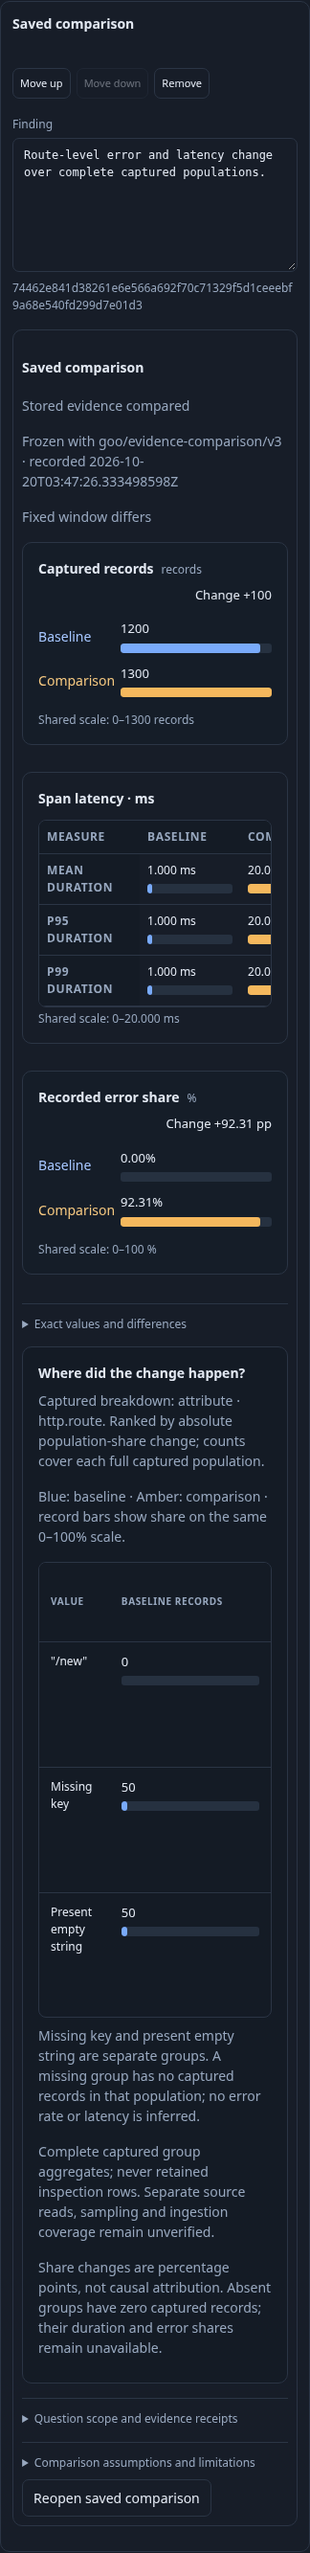
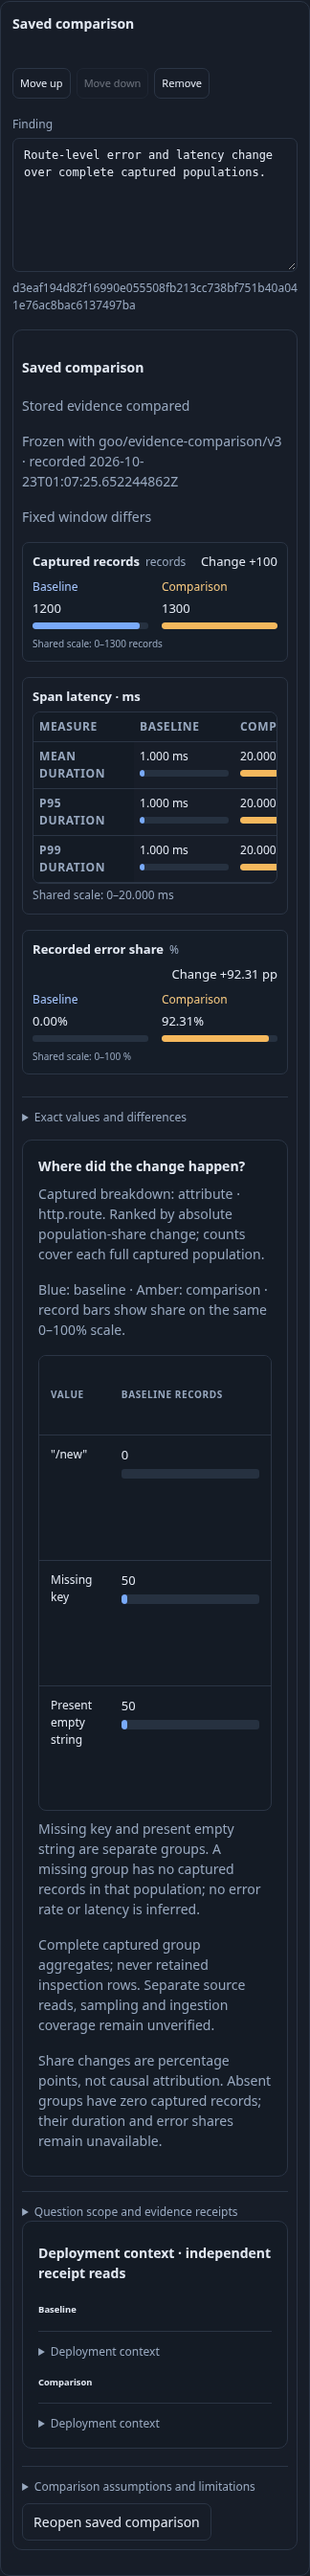
Use signal-appropriate columns and controls for log comparisons

diff --git a/ui/comparison-breakdown.js b/ui/comparison-breakdown.js
@@ -1,15 +1,17 @@
 /* Stored group evidence and explicit recapture share the existing question contract. */
 (function(global){
  const workspace=()=>typeof module!=='undefined'?require('./workspace'):global.GooWorkspace;
+ // Signal capability is distinct from whether a particular capture recorded measures.
+ function recordMeasures(a,b){const spans=a?.signal==='spans'&&b?.signal==='spans';return {duration:spans,status:spans}}
  function grouped(question,field){const q=structuredClone(question);q.groupBy=[structuredClone(field)];q.offset=0;q.limit=100;delete q.groupTimeSeries;if(q.signal==='spans'){q.summary='span-duration';q.spanStatus=true}workspace().validateStep(workspace().recordStep(q));return q}
  function focused(question,field,value){const q=grouped(question,field),leaf={field:structuredClone(field),op:value===null?'missing':'eq',...(value===null?{}:{value})};q.where=q.where?{all:[q.where,leaf]}:leaf;workspace().validateStep(workspace().recordStep(q));return q}
  function mount(host,result,{saved=false,current=()=>host.isConnected}={}){
   const a=result.baseline.receipt.question.explore,b=result.selection.receipt.question.explore;if(!a||!b)return;
   const n=(tag,text)=>{const e=document.createElement(tag);if(text!==undefined)e.textContent=text;return e},section=n('section');section.className='comparison-breakdown';section.append(n('h5','Where did the change happen?'));host.append(section);
-  const d=result.breakdown;
-  if(d){section.append(n('p',`Captured breakdown: ${d.field.kind} · ${d.field.key}. Ranked by absolute population-share change; counts cover each full captured population.`));const wrap=n('div'),table=n('table'),head=n('tr');wrap.className='scroll';for(const h of ['Value','Baseline records','Comparison records','Share change (pp)','Recorded errors (baseline → comparison)','Mean duration (baseline → comparison)','Investigate'])head.append(n('th',h));table.append(head);
+  const d=result.breakdown,capabilities=recordMeasures(a,b);
+  if(d){section.append(n('p',`Captured breakdown: ${d.field.kind} · ${d.field.key}. Ranked by absolute population-share change; counts cover each full captured population.`));const wrap=n('div'),table=n('table'),head=n('tr');table.dataset.signal=a.signal;wrap.className='scroll';for(const h of ['Value','Baseline records','Comparison records','Share change (pp)',...(capabilities.status?['Recorded errors (baseline → comparison)']:[]),...(capabilities.duration?['Mean duration (baseline → comparison)']:[]),'Investigate'])head.append(n('th',h));table.append(head);
    const fmt=(x)=>x?global.GooDistributions.durationMS(x.sumNs,x.count):'Unavailable',status=x=>x?`${x.error}/${x.count} (${global.GooDistributions.percent(x.error,x.count)}%)`:'Unavailable';
-   section.append(n('p','Blue: baseline · Amber: comparison · record bars show share on the same 0–100% scale.','comparison-key'));for(const row of d.rows){const tr=n('tr');tr.dataset.groupValue=JSON.stringify(row.value);for(const text of [global.GooDistributions.valueLabel(row.value),row.baselineCount,row.selectionCount,row.differencePP,status(row.measures?.baselineStatus)+' → '+status(row.measures?.selectionStatus),fmt(row.measures?.baselineDuration)+' → '+fmt(row.measures?.selectionDuration)])tr.append(n('td',text));for(const [index,count,total,side]of[[1,row.baselineCount,result.baseline.count,'baseline'],[2,row.selectionCount,result.selection.count,'selection']]){const cell=tr.children[index];cell.replaceChildren();global.GooComparisonVisual.cell(cell,global.GooDistributions.percent(count,total),side,{max:'100',text:count})}const cell=n('td');for(const [label,q]of[['Baseline',a],['Comparison',b]]){let link=n('a','Open '+label.toLowerCase()+' question');try{link.href=workspace().stepLink(workspace().recordStep(focused(q,d.field,row.value)));link.title='Opens an authored fixed question; run explicitly to read telemetry.'}catch(e){link=n('span','Focused question exceeds query budget')}cell.append(link,n('br'))}tr.append(cell);table.append(tr)}wrap.append(table);section.append(wrap,n('p','Missing key and present empty string are separate groups. A missing group has no captured records in that population; no error rate or latency is inferred.'));for(const warning of d.warnings)section.append(n('p',warning));
+   section.append(n('p','Blue: baseline · Amber: comparison · record bars show share on the same 0–100% scale.','comparison-key'));for(const row of d.rows){const tr=n('tr');tr.dataset.groupValue=JSON.stringify(row.value);for(const text of [global.GooDistributions.valueLabel(row.value),row.baselineCount,row.selectionCount,row.differencePP,...(capabilities.status?[status(row.measures?.baselineStatus)+' → '+status(row.measures?.selectionStatus)]:[]),...(capabilities.duration?[fmt(row.measures?.baselineDuration)+' → '+fmt(row.measures?.selectionDuration)]:[])])tr.append(n('td',text));for(const [index,count,total,side]of[[1,row.baselineCount,result.baseline.count,'baseline'],[2,row.selectionCount,result.selection.count,'selection']]){const cell=tr.children[index];cell.replaceChildren();global.GooComparisonVisual.cell(cell,global.GooDistributions.percent(count,total),side,{max:'100',text:count})}const cell=n('td');for(const [label,q]of[['Baseline',a],['Comparison',b]]){let link=n('a','Open '+label.toLowerCase()+' question');try{link.href=workspace().stepLink(workspace().recordStep(focused(q,d.field,row.value)));link.title='Opens an authored fixed question; run explicitly to read telemetry.'}catch(e){link=n('span','Focused question exceeds query budget')}cell.append(link,n('br'))}tr.append(cell);table.append(tr)}wrap.append(table);section.append(wrap,n('p','Missing key and present empty string are separate groups. A missing group has no captured records in that population; no error rate or latency is inferred.'));for(const warning of d.warnings)section.append(n('p',warning));
   }else section.append(n('p',a.numeric||b.numeric?'Numeric attribute comparisons are not supported.':a.groupBy?.length===2?'Two-field captures do not contain a complete single-field breakdown.':'A single-field breakdown was not captured. Inspection rows cannot supply full-population groups.'));
   if(saved||result.state!=='comparable'||a.numeric||b.numeric)return;
   const details=n('details');details.className='breakdown-recapture';details.append(n('summary',d?'Capture another breakdown':'Capture a breakdown'));const label=n('label','Breakdown dimension'),select=n('select');select.setAttribute('aria-label','Breakdown dimension');const fields=[['Service',{kind:'column',key:'service'}],['HTTP route',{kind:'attribute',key:'http.route'}],['Deployment version',{kind:'resource',key:'service.version'}],['Cloud region',{kind:'resource',key:'cloud.region'}]];for(const [name,f]of fields){const o=n('option',name);o.value=JSON.stringify(f);select.append(o)}label.append(select);const note=n('p','Reads both original fixed windows again with this grouping. Creates two new captures; original evidence and findings remain unchanged. Sampling and late arrivals can change the new results.'),run=n('button','Capture both windows'),status=n('p'),retained=n('div'),out=n('div');status.setAttribute('role','status');details.append(label,note,run,status,retained,out);section.append(details);
@@ -17,5 +19,5 @@
   Promise.all([result.baseline.receipt.id,result.selection.receipt.id].map(id=>fetch('/api/captures/'+id).then(async r=>{if(!r.ok)throw Error('Stored fields unavailable');return r.json()}))).then(pair=>{if(!current())return;const seen=new Set(fields.map(x=>JSON.stringify(x[1])));for(const p of pair)for(const f of p.explore?.fields||[]){const k=JSON.stringify({kind:f.kind,key:f.key});if(seen.has(k))continue;seen.add(k);const o=n('option',f.kind+' · '+f.key);o.value=k;select.append(o)}}).catch(()=>{if(current())status.textContent='Stored field discovery unavailable; standard OTel dimensions remain selectable.'});
   let pending=null;run.onclick=async()=>{if(!current())return;run.disabled=true;select.disabled=true;out.replaceChildren();let ids=[];try{if(pending){ids=pending.ids;status.textContent='Comparing retained captures…'}else{const field=JSON.parse(select.value),questions=[grouped(a,field),grouped(b,field)];status.textContent='Capturing both fixed windows…';for(let i=0;i<2;i++){if(!current())throw Error('Comparison closed; completed captures remain retained.');const response=await fetch('/api/captures',{method:'POST',headers:{'Content-Type':'application/json'},body:JSON.stringify({title:(i?'Comparison':'Baseline')+' breakdown',question:{kind:'explore',explore:questions[i]}})}),capture=await response.json();if(!response.ok)throw Error(capture.error||'Capture unavailable');ids.push(capture.receipt.id);const p=n('p',(i?'Comparison':'Baseline')+' retained: '+capture.receipt.id);p.className='reference-id';retained.append(p)}pending={ids};}if(!current())return;status.textContent='New breakdown captures retained. Originals unchanged.';global.GooEvidenceComparison.mount(out,ids,{autoCompare:true});run.textContent='Compare retained breakdown';}catch(e){status.textContent=e.message+(ids.length?' Completed capture IDs are retained above; retry creates a new pair.':'')}finally{if(current()){run.disabled=false;select.disabled=!!pending}}};
  }
- const api={grouped,focused,mount};if(typeof module!=='undefined')module.exports=api;else global.GooComparisonBreakdown=api;
+ const api={recordMeasures,grouped,focused,mount};if(typeof module!=='undefined')module.exports=api;else global.GooComparisonBreakdown=api;
 })(typeof window==='undefined'?globalThis:window);

diff --git a/ui/distributions.js b/ui/distributions.js
@@ -26,7 +26,8 @@
   }catch(e){if(generation===comparisonGeneration){el('cohortValues').replaceChildren();el('cohortExplain').textContent='';el('cohortStatus').textContent='Comparison unavailable · '+e.message}}}
   function signedMS(ns){if(ns===undefined||ns==='')return 'Unavailable';const negative=ns.startsWith('-');const absolute=negative?ns.slice(1):ns;const whole=absolute.split('.')[0];return (negative?'−':'+')+durationMS(whole)}
   function measureValues(m,metric){if(metric==='error-rate')return [m?.baselineStatus?percent(m.baselineStatus.error,m.baselineStatus.count):null,m?.selectionStatus?percent(m.selectionStatus.error,m.selectionStatus.count):null,m?.errorDifferencePP];const field={mean:'sumNs',p95:'p95Ns',p99:'p99Ns'}[metric];return [m?.baselineDuration?.state==='observed'?durationMS(m.baselineDuration[field],metric==='mean'?m.baselineDuration.count:'1'):null,m?.selectionDuration?.state==='observed'?durationMS(m.selectionDuration[field],metric==='mean'?m.selectionDuration.count:'1'):null,m?.[{mean:'meanDifferenceNs',p95:'p95DifferenceNs',p99:'p99DifferenceNs'}[metric]]];}
-  function renderComparison(result){el('cohortValues').replaceChildren();el('cohortMeasures').replaceChildren();if(result.state!=='ok')return;const scopeDetails=node('details');scopeDetails.append(node('summary','Scope, status and comparison limits'));el('cohortMeasures').append(scopeDetails);scopeDetails.append(node('p','Baseline '+new Date(baseline.question.fromMs).toISOString()+' → '+new Date(baseline.question.toMs).toISOString()+' · current '+new Date(current.question.fromMs).toISOString()+' → '+new Date(current.question.toMs).toISOString()+' · half-open windows.'));if(result.measures?.baselineStatus&&result.measures?.selectionStatus){const describe=s=>'Error '+s.error+' · OK '+s.ok+' · Unset '+s.unset+' · unrecognized / missing '+s.unknown;scopeDetails.append(node('p','Baseline status: '+describe(result.measures.baselineStatus)+'; current status: '+describe(result.measures.selectionStatus)+'.'))}const metric=el('comparisonMeasure').value;for(const o of el('comparisonMeasure').options)o.disabled=o.value==='error-rate'?!(result.measures?.baselineStatus&&result.measures?.selectionStatus):o.value!=='share'&&!(result.measures?.baselineDuration&&result.measures?.selectionDuration);if(el('comparisonMeasure').selectedOptions[0].disabled){el('comparisonMeasure').value='share';return renderComparison(result)}
+  function comparisonCapabilities(a,b){const c=global.GooComparisonBreakdown.recordMeasures(a,b);for(const o of el('comparisonMeasure').options)o.hidden=o.value==='error-rate'?!c.status:o.value!=='share'&&!c.duration;el('comparisonMeasure').parentElement.hidden=!c.status&&!c.duration;if(el('comparisonMeasure').selectedOptions[0].hidden)el('comparisonMeasure').value='share';}
+  function renderComparison(result){el('cohortValues').replaceChildren();el('cohortMeasures').replaceChildren();if(result.state!=='ok')return;const scopeDetails=node('details');scopeDetails.append(node('summary','Scope, status and comparison limits'));el('cohortMeasures').append(scopeDetails);scopeDetails.append(node('p','Baseline '+new Date(baseline.question.fromMs).toISOString()+' → '+new Date(baseline.question.toMs).toISOString()+' · current '+new Date(current.question.fromMs).toISOString()+' → '+new Date(current.question.toMs).toISOString()+' · half-open windows.'));if(result.measures?.baselineStatus&&result.measures?.selectionStatus){const describe=s=>'Error '+s.error+' · OK '+s.ok+' · Unset '+s.unset+' · unrecognized / missing '+s.unknown;scopeDetails.append(node('p','Baseline status: '+describe(result.measures.baselineStatus)+'; current status: '+describe(result.measures.selectionStatus)+'.'))}comparisonCapabilities(baseline.question,current.question);const metric=el('comparisonMeasure').value;for(const o of el('comparisonMeasure').options)o.disabled=o.hidden||(o.value==='error-rate'?!(result.measures?.baselineStatus&&result.measures?.selectionStatus):o.value!=='share'&&!(result.measures?.baselineDuration&&result.measures?.selectionDuration));if(el('comparisonMeasure').selectedOptions[0].disabled){el('comparisonMeasure').value='share';return renderComparison(result)}
    const format=(m)=>{const [a,b,d]=measureValues(m,metric);return [a===null?'Unavailable':a+(metric==='error-rate'?'%':''),b===null?'Unavailable':b+(metric==='error-rate'?'%':''),d===undefined||d===''?'Unavailable':metric==='error-rate'?(d.startsWith('-')?'':'+')+d+' pp':signedMS(d)]};
    if(metric!=='share'){const values=format(result.measures);scopeDetails.append(node('p','Whole population · baseline '+values[0]+' → current '+values[1]+' · '+values[2]));scopeDetails.append(node('p','Differences are current minus baseline. Each percentile is computed independently over its full population. Missing groups have unavailable measures; zero is not substituted.'))}
    const visual=global.GooComparisonVisual,raw=m=>measureValues(m,metric).slice(0,2).map(v=>v===null?null:v.replace(/ ms$/,'')),axis=metric==='share'||metric==='error-rate'?'100':visual.maximum([...result.rows.flatMap(r=>raw(r.measures)),...raw(result.measures)]);visual.pair(el('cohortMeasures'),{title:metric==='share'?'Captured population size':el('comparisonMeasure').selectedOptions[0].textContent,values:metric==='share'?[result.baselineCount,result.selectionCount]:raw(result.measures),display:metric==='share'?[result.baselineCount,result.selectionCount]:format(result.measures).slice(0,2),unit:metric==='share'?'records':metric==='error-rate'?'%':'ms',delta:metric==='share'?(BigInt(result.selectionCount)-BigInt(result.baselineCount)).toString():format(result.measures)[2],...(metric!=='share'?{ceiling:axis}:{})});const key=node('p','Baseline · Current selection · all rows share a 0–'+axis+(metric==='share'||metric==='error-rate'?'%':' ms')+' scale','comparison-key');el('cohortValues').append(key);
@@ -37,6 +38,7 @@
   el('comparePrevious').onclick=async()=>{if(!current)return;const selection=current,previousButton=el('comparePrevious');clearComparison();const g=comparisonGeneration;previousButton.disabled=true;el('cohortStatus').textContent='Reading the previous fixed window…';select('Compare');try{const q=structuredClone(selection.question),width=q.toMs-q.fromMs;q.toMs=q.fromMs;q.fromMs-=width;q.offset=0;const response=await global.GooQueries.post('/api/explore',q),data=await response.json();if(g!==comparisonGeneration)return;if(!response.ok)throw Error(data.error);baseline=snapshot(data,true);frozenWindow=structuredClone(selection.question);updateBaseline();await compare()}catch(e){if(g===comparisonGeneration)el('cohortStatus').textContent='Previous window unavailable · '+e.message}finally{if(current===selection)previousButton.disabled=false}};
   el('comparisonSave').hidden=readOnly;el('comparePrevious').hidden=readOnly;el('comparisonSave').onclick=()=>{if(!baseline||!current)return;global.dispatchEvent(new CustomEvent('goo:save-capture',{detail:{question:{kind:'comparison',comparison:{baseline:baseline.question,selection:current.question}},title:'Population comparison'}}))};
   function renderDistribution(data){
+   comparisonCapabilities(data.question,data.question);
    const field=data.question.groupBy?.[0],valid=data.question.groupBy?.length===1,hasNumeric=data.groups.some(g=>g.numeric),hasStatus=data.groups.length>0&&data.groups.every(g=>g.spanStatus),hasDurations=data.groups.length>0&&data.groups.every(g=>g.duration?.state==='observed');el('baselinePin').disabled=!!data.numeric||!valid||data.state==='changed_between_reads';el('comparePrevious').disabled=readOnly||!!data.numeric||!valid||data.state==='changed_between_reads'||data.question.fromMs<(data.question.toMs-data.question.fromMs);el('distributionMeasureLabel').hidden=!valid||(!hasDurations&&!hasStatus&&!hasNumeric);for(const o of el('distributionMeasure').options)o.disabled=o.hidden=o.value.startsWith('numeric-')?!hasNumeric:o.value==='error-rate'?!hasStatus:o.value!=='count'&&!hasDurations;if(el('distributionMeasure').selectedOptions[0].disabled)el('distributionMeasure').value='count';const metric=el('distributionMeasure').value;el('baselinePin').textContent='Pin as baseline';const content=el('distributionContent');content.replaceChildren();
    if(!valid)content.append(node('div','Choose a breakdown field, then apply your query.'));
    else if(data.state==='changed_between_reads')content.append(node('p','Source reads disagree. The total measures and breakdown cannot be treated as one population.'));

diff --git a/journeys/log-comparison.spec.js b/journeys/log-comparison.spec.js
@@ -1,0 +1,17 @@
+const {test,expect}=require('@playwright/test'),{randomBytes}=require('node:crypto'),{recordStep}=require('../ui/workspace');
+const {startBombadil}=require('./support/cross-app');
+const base=process.env.GOO_QUERY_URL||'http://127.0.0.1:8088';
+test('119 compare ordinary logs with full counts and share rather than span measures',async({page,request})=>{
+ test.setTimeout(150000);page.setDefaultTimeout(15000);const environment='log-compare-'+randomBytes(4).toString('hex'),now=Date.now(),attrs=o=>Object.entries(o).map(([key,stringValue])=>({key,value:{stringValue}}));
+ async function post(path,data){const r=await request.post(base+path,{data});expect(r.ok(),await r.text()).toBe(true);return r.json()}
+ const records=[];for(const [offset,values]of [[90000,[null,'','west']],[30000,['west','west','east']]])for(const value of values)records.push({timeUnixNano:String(BigInt(now-offset)*1000000n),body:{stringValue:'ordinary log'},severityText:'ERROR',attributes:attrs(value===null?{}:{region:value})});
+ expect((await request.post('http://127.0.0.1:4318/v1/logs',{data:{resourceLogs:[{resource:{attributes:attrs({'service.name':'worker','deployment.environment.name':environment})},scopeLogs:[{logRecords:records}]}]}})).ok()).toBe(true);
+ const q={signal:'logs',environment,fromMs:now-60000,toMs:now,limit:1,offset:0,groupBy:[{kind:'attribute',key:'region'}]};await expect.poll(async()=>{const r=await post('/api/explore',q);return r.count},{timeout:45000}).toBe('3');
+ const view=await post('/api/exploration-views',{version:1,title:'Log populations',queries:[q],layout:'charts-records',columns:['utc','summary']});
+ const reads=[],errors=[];page.on('pageerror',e=>errors.push(e.message));page.on('request',r=>{if(r.method()==='POST'&&/\/api\/(explore|captures|measurements)$/.test(r.url()))reads.push(r.url())});
+ await page.goto(base+'/#exploration-view='+view.id);const pop=page.getByRole('region',{name:'Population workspace',exact:true});await pop.getByRole('button',{name:'Run population view',exact:true}).click();await expect(pop).toHaveAttribute('data-phase','applied');const logs=pop.locator('[data-population-signal=logs]');await expect(logs.locator('.record-row')).toHaveCount(1);expect(await logs.locator('[id$=comparisonMeasure]').evaluate(e=>e.parentElement.hidden)).toBe(true);await logs.getByRole('button',{name:'Compare previous window',exact:true}).click();await expect(logs.locator('[id$=cohortStatus]')).toContainText('3 selected records vs 3 baseline records');await expect(logs.locator('[id$=comparisonMeasure]')).toBeHidden();await expect(logs.locator('.cohort-table')).toContainText('Missing key');await expect(logs.locator('.cohort-table')).toContainText('Present empty string');await expect(logs.locator('.cohort-table')).not.toContainText('Unavailable');await logs.screenshot({path:'docs/journeys/screenshots/119a-log-population-comparison.png'});
+ const a=await post('/api/captures',{title:'Earlier logs',question:{kind:'explore',explore:{...q,fromMs:now-120000,toMs:now-60000}}}),b=await post('/api/captures',{title:'Current logs',question:{kind:'explore',explore:q}}),doc=await post('/api/documents',{document:{title:'Log distribution change',cards:[{kind:'question',key:randomBytes(32).toString('hex'),step:recordStep(q),evidence:[a.receipt.id,b.receipt.id]}]}});
+ const before=reads.length;await page.goto(base+'/#document='+doc.id);const comparison=page.locator('#documentCards .question-evidence > .evidence-comparison');await comparison.getByRole('button',{name:'Compare captures',exact:true}).click();const result=comparison.locator('.evidence-comparison-result');await expect(result).toHaveAttribute('data-state','comparable');const table=result.locator('.comparison-breakdown table');await expect(table.locator('th')).toHaveText(['Value','Baseline records','Comparison records','Share change (pp)','Investigate']);await expect(table.locator('tr')).toHaveCount(5);await expect(table).toContainText('Missing key');await expect(table).toContainText('Present empty string');await expect(table).not.toContainText('Unavailable');expect(reads.length).toBe(before);await result.screenshot({path:'docs/journeys/screenshots/119b-stored-log-comparison.png'});
+ await page.setViewportSize({width:390,height:844});expect(await page.evaluate(()=>document.documentElement.scrollWidth<=innerWidth)).toBe(true);await table.evaluate(e=>e.parentElement.scrollLeft=e.parentElement.scrollWidth);const link=table.getByRole('link',{name:'Open comparison question',exact:true}).first();await link.scrollIntoViewIfNeeded();await expect(link).toBeInViewport();await result.locator('.comparison-breakdown').screenshot({path:'docs/journeys/screenshots/119c-mobile-log-breakdown.png'});expect(reads.length).toBe(before);expect(errors).toEqual([]);
+ if(process.env.GOO_LOG_COMPARISON_BOMBADIL==='1'){const actor=await startBombadil({dir:'artifacts/log-comparison/'+environment,url:base+'/#document='+doc.id,specification:'verification/bombadil/log-comparison.ts',seconds:15});try{await actor.finish()}finally{await actor.stop()}}
+});

diff --git a/verification/bombadil/log-comparison.ts b/verification/bombadil/log-comparison.ts
@@ -1,0 +1,9 @@
+import {always,eventually} from '@antithesishq/bombadil';
+import {extract,actions,registerCustomAction} from '@antithesishq/bombadil/browser';
+export {noUncaughtExceptions,noUnhandledPromiseRejections} from '@antithesishq/bombadil/browser/defaults/properties';
+const state=extract(({document,window})=>({canStart:[...document.querySelectorAll<HTMLButtonElement>('.evidence-comparison button')].some(b=>b.textContent==='Compare captures'&&!b.disabled),ready:!!document.querySelector('.evidence-comparison-result[data-state=comparable]'),headers:document.querySelectorAll('.comparison-breakdown table th').length,sourceReads:window.performance.getEntriesByType('resource').filter(e=>/\/api\/explore$/.test(new URL(e.name).pathname)).length,stage:Number(document.documentElement.dataset.logCompareStage||0)}));
+export const noRecordRead=always(()=>state.current.sourceReads===0);
+export const logColumns=always(()=>!state.current.ready||state.current.headers===5);
+export const complete=eventually(()=>state.current.stage===2&&state.current.ready).within(10,'seconds');
+const step=registerCustomAction('goo.logComparison',async(document,_window,stage:number)=>{if(stage===0)[...document.querySelectorAll<HTMLButtonElement>('.evidence-comparison button')].find(b=>b.textContent==='Compare captures')!.click();else{const box=document.querySelector<HTMLElement>('.comparison-breakdown>.scroll')!;box.scrollLeft=box.scrollWidth}document.documentElement.dataset.logCompareStage=String(stage+1)});
+export const choices=actions(()=>state.current.stage===0&&state.current.canStart?[step(0)]:state.current.stage===1&&state.current.ready?[step(1)]:['Wait']);

diff --git a/journeys/comparison-breakdown.spec.js b/journeys/comparison-breakdown.spec.js
@@ -1,4 +1,4 @@
-const {test,expect}=require('@playwright/test'),{randomBytes}=require('node:crypto'),fs=require('node:fs/promises'),path=require('node:path');const {recordStep,readStepLink}=require('../ui/workspace'),{verifyWithGo,startBombadil}=require('./support/cross-app');const base='http://127.0.0.1:8088';
+const {test,expect}=require('@playwright/test'),{randomBytes}=require('node:crypto'),fs=require('node:fs/promises'),path=require('node:path');const {recordStep,readStepLink}=require('../ui/workspace'),{verifyWithGo,startBombadil}=require('./support/cross-app');const base=process.env.GOO_QUERY_URL||'http://127.0.0.1:8088';
 async function post(request,url,data){const r=await request.post(base+url,{data});expect(r.ok(),await r.text()).toBe(true);return r.json()}
 test('58 locate a change in complete route populations, focus and share without rereading evidence',async({page,request,browser})=>{
  test.setTimeout(240000);const environment='breakdown-'+randomBytes(5).toString('hex'),end=Date.now(),attrs=o=>Object.entries(o).map(([key,stringValue])=>({key,value:{stringValue}})),spans=[];

diff --git a/tests/comparison-capabilities.test.js b/tests/comparison-capabilities.test.js
@@ -1,0 +1,2 @@
+const {test}=require('node:test'),assert=require('node:assert/strict'),{recordMeasures}=require('../ui/comparison-breakdown');
+test('record comparison measures follow both signal contracts, not data presence',()=>{for(const signal of ['logs',undefined])assert.deepEqual(recordMeasures({signal},{signal}),{duration:false,status:false});assert.deepEqual(recordMeasures({signal:'spans'},{signal:'logs'}),{duration:false,status:false});assert.deepEqual(recordMeasures({signal:'spans'},{signal:'spans'}),{duration:true,status:true});});

diff --git a/ui/product.css b/ui/product.css
@@ -1437,3 +1437,5 @@ td details {
 .recent-canvas .record-fields-toolbar>.population-count{flex:1;min-width:0;margin:0;font-size:11px}
 .recent-canvas .record-fields-toolbar>goo-record-columns{flex:0 0 auto;margin:0}
 .recent-canvas .record-fields-toolbar:has(goo-record-columns>details[open]){display:block}
+
+.comparison-breakdown>.scroll>table[data-signal=logs]{min-width:40rem}

diff --git a/docs/COMPARISON_BREAKDOWNS.md b/docs/COMPARISON_BREAKDOWNS.md
@@ -7,7 +7,10 @@ The same group comparator powers live exploration and immutable evidence.
 
 A comparison shows overall results first, then **Where did the change happen?**
 with a union of values, both counts, population-share change in percentage points,
-recorded error fractions and mean durations where captured. Ranking is by absolute
+recorded error fractions and mean durations for spans where captured. Log
+comparisons show count/share columns and focused-question links, without span-only
+error/latency columns. Span measures missing from a capture remain explicitly
+unavailable; log severity is not interpreted as span status. Ranking is by absolute
 share change. Missing attributes and present empty strings remain distinct.
 A one-sided group has zero captured records on the absent side, with unavailable
 latency/error share. Missing telemetry is not health or a causal explanation.
@@ -52,3 +55,20 @@ Story [58](journeys/README.md) uses real OTLP HTTP spans with 1200/1300 matching
 records, exceeding the 1000 retained inspection-row limit. Review rationale is in
 [comparison review](COMPARISON_PRODUCT_REVIEW.md); broader service/default dashboard
 priorities are in the [whole-product review](WHOLE_PRODUCT_REVIEW.md).
+
+## Signal-appropriate comparison presentation
+
+Both live comparison controls and stored breakdown tables use the same pure
+`GooComparisonBreakdown.recordMeasures` signal-capability adapter. Log comparisons
+use population share; their redundant one-choice measure selector is hidden.
+Span selectors retain their supported measures and disable ones lacking captured
+data. Presentation does not alter either fixed question, count, grouping, receipt
+or comparison ranking. Log breakdowns retain local horizontal scrolling on mobile.
+
+Journey 119 ingests ordinary OTLP logs in two windows, compares full counts despite
+a one-row exploration page, checks missing/empty group identity and opens stored
+comparisons without telemetry execution. Bombadil exercises stored comparison and
+local horizontal scrolling; the existing span journey 58 retains its observed
+Quint recapture/share protocol and rejecting controls.
+
+![Stored log comparison](journeys/screenshots/119b-stored-log-comparison.png)

diff --git a/VALIDATION.md b/VALIDATION.md
@@ -1,5 +1,36 @@
 # Validation record
 
+## Signal-appropriate log comparisons (2026-10-23 UTC)
+
+The bounded D1 presentation cut shares a pure record-signal capability adapter
+between live comparison controls and stored breakdown columns. Logs use full
+count/share comparisons without span duration/status choices or empty span-measure
+columns. Span measures absent from a capture retain unavailable states. Query
+predicates, full totals, comparison arithmetic/ranking and receipts are unchanged.
+
+Actual checks:
+
+- All 41 Node test files pass, including signal capability versus data presence.
+- Ordinary OTLP log journey 119 passes with a 15-second Bombadil campaign (26.8s):
+  previous-window comparison, three-record groups versus a one-row inspection
+  page, distinct missing/empty values, stored comparison without telemetry POSTs,
+  exact five-column breakdown and mobile focused-question access. Bombadil checks
+  comparison/scroll completion, five log columns and no `/api/explore` reads.
+- Existing real span journey 58 passes (30.5s), including captured mean/error
+  columns, complete groups beyond retained pages, exact focused questions,
+  immutable sharing and observed Go/Quint validation with rejecting controls.
+- A first mobile assertion omitted vertical scrolling. The first Bombadil
+  resource counter also counted a metadata catalog GET as execution; the actor
+  now checks the record execution endpoint, while Playwright separately checks
+  source/capture POSTs. These harness failures were corrected and rerun.
+- Final deployed span regression also passes (30.7s), including its observed
+  validator, after the shared control initialization was finalized.
+- Final rebuilt/deployed log journey and Bombadil campaign pass (23.5s),
+  including capability initialization before comparison starts. The query image
+  uses the established CA overlay; 2.8 GB remains free after rebuilding.
+- Frames 119a–c and refreshed span frames document the running app. Contract,
+  README, planning, architecture notes and known gaps reflect the bounded cut.
+
 ## Diagnostic cleanup (2026-10-23 UTC)
 
 Free space rose from 509 MB to 6.4 GB. Byte-identical diagnostic PNG/JPEG files

diff --git a/docs/KNOWN_ISSUES.md b/docs/KNOWN_ISSUES.md
@@ -423,8 +423,9 @@ dashboard snapshots remain future work.
 
 Breakdown ranking currently uses absolute population-share change. A group with
 large latency/error change and little share movement may rank later; alternate
-error/latency ranking is planned. Log breakdowns explicitly show unavailable
-span-measure columns; hiding unsupported columns remains polish work.
+error/latency ranking is planned. Log breakdowns now omit unsupported span-measure columns, and live log
+comparison controls use population share without a span-measure selector. Span
+measures absent from captured data remain explicitly unavailable.
 
 Namespace-aware service identity and registered operation-span dashboard cards
 are implemented; see [service identity](SERVICE_IDENTITY.md). Trace schema URL

diff --git a/docs/journeys/README.md b/docs/journeys/README.md
@@ -1653,3 +1653,9 @@ Frame 118d and journey 118 also cover reopened saved record-field exclusion,
 missing/empty preservation, selected-child staging/Run/return and observed
 Quint trace validation. The field Bombadil campaign additionally stages an
 exclusion after local column changes and checks that no source read follows.
+
+Journey 119 (`journeys/log-comparison.spec.js`) covers ordinary log comparisons,
+full groups versus bounded row pages, missing/empty groups, source-free stored
+comparison and mobile focused-question access. Frames 119a–c document live,
+stored and mobile surfaces. Set `GOO_LOG_COMPARISON_BOMBADIL=1` for its bounded
+stored-comparison campaign.

diff --git a/docs/UI_COMPONENTS.md b/docs/UI_COMPONENTS.md
@@ -521,3 +521,8 @@ The private native comparison projection accounts for known Go zero/omitempty
 binding defaults on a clone; it does not rewrite input/storage or validate full
 native definitions. Both document evidence matching and fresh-baseline eligibility
 consume `evidenceDifference`. See [wire fixtures and scope rules](QUESTION_PROTOCOL.md).
+
+`GooComparisonBreakdown.recordMeasures(baselineQuestion, selectionQuestion)`
+is the shared display-only signal-capability adapter for live comparison choices
+and stored breakdown columns. It distinguishes unsupported log span measures from
+missing captured span data. It performs no source or capability discovery reads.
